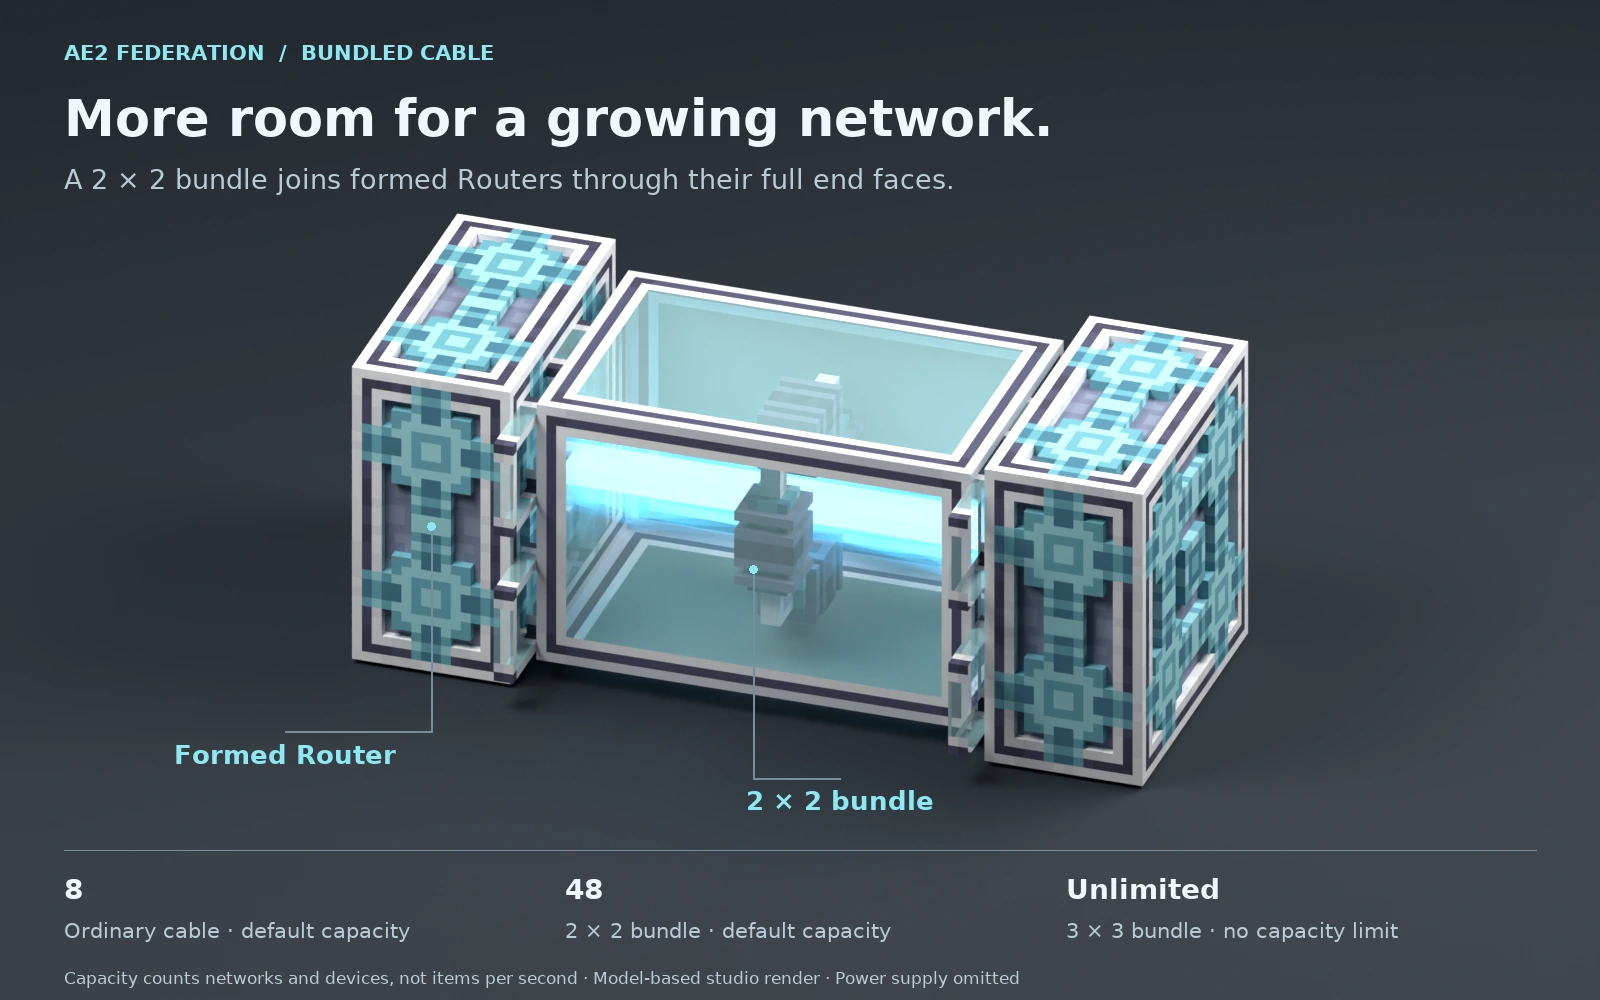
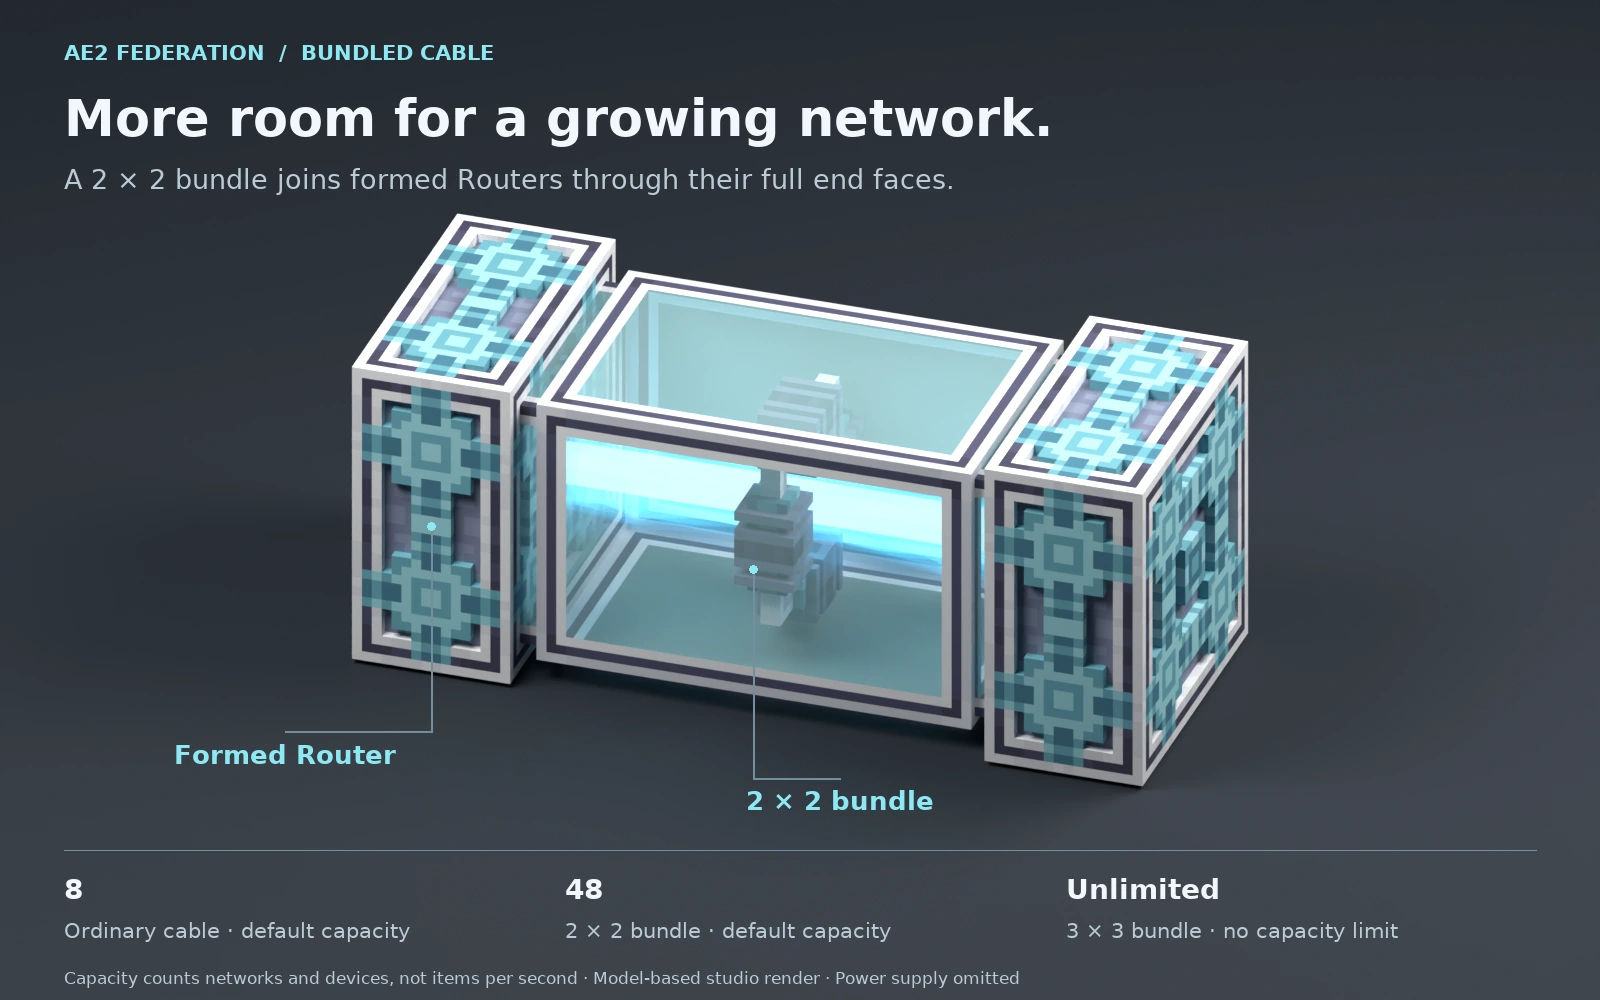
Fix stale guide claims, per-device shape messages and side-contact beams
From a review of the guide against the code:

- The guide still said one domain holds up to 4096 Federation blocks;
  that limit was removed.
- A Beam Former or Quantum Cube of the wrong size told the player to
  build a Beam Converter's shape. A device with a size rule of its own
  now names it (FormableDevice.sizeRule), in the use message and in
  Jade, also when the body is merely too large.
- A bundle meets ordinary cables through any formed device both connect
  to, not only a Router; a Router or Switch face links to every device
  face Federation Cable joins; and a device face only needs to be at
  least as large as the bundle's end.
- The one beam of a 2x2 or 3x3 bundle now turns into a device that takes
  a whole side row of its layer, as an ordinary cable's beam runs into a
  device. A layer's side contacts are part of BundleLook, since the
  corner cell that draws the beam does not touch them all.
- The gallery's bundled cable image showed the old per-cell arms; it is
  re-rendered with one arm per end.

diff --git a/common/src/main/java/space/controlnet/ae2federation/bundle/BundleLook.java b/common/src/main/java/space/controlnet/ae2federation/bundle/BundleLook.java
@@ -24,10 +24,11 @@ import space.controlnet.ae2federation.router.CableVisualConnections;
  * before this cell, bit 1 the one after); in a 3x3 one it stands inside every {@link #HUGE_RING_SPACING}th layer but
  * an end layer (bit 2). Where a branch leaves, the layers it covers carry the artist's corner rings instead. {@code jointsBefore} and
  * {@code jointsAfter} name the sides with such a branch, for every cell of those layers, and whether the branch goes on
- * into the previous or the next layer; the middle layer of a 3x3 branch has both.
+ * into the previous or the next layer; the middle layer of a 3x3 branch has both. {@code contacts} names, for every cell of
+ * the layer, the sides where a device takes the whole row of that side at this layer, so the one beam can turn toward it.
  */
 public record BundleLook(Direction.Axis axis, int edges, int joins, int dense, int joinsBefore, int joinsAfter,
-        int side, int rings, int jointsBefore, int jointsAfter) {
+        int side, int rings, int jointsBefore, int jointsAfter, int contacts) {
     /** Layer boundaries between two rings of a straight 2x2 stretch, counted in world coordinates. */
     public static final int RING_SPACING = 2;
     /**
@@ -76,14 +77,19 @@ public record BundleLook(Direction.Axis axis, int edges, int joins, int dense, i
             }
         }
         int width = segment.shape().filter(shape -> shape.narrow() == shape.wide()).map(BundleShape::narrow).orElse(0);
-        if (width == 0) return Optional.of(new BundleLook(axis, edges, joins, dense, before, after, 0, 0, 0, 0));
+        if (width == 0) return Optional.of(new BundleLook(axis, edges, joins, dense, before, after, 0, 0, 0, 0, 0));
         int jointsBefore = 0;
         int jointsAfter = 0;
+        int layerContacts = 0;
         for (var side : Direction.values()) {
             if (side.getAxis() == axis) continue;
             var face = faceCell(segment, pos, side);
             var branch = segments.apply(face.relative(side));
-            if (branch.isEmpty() || !BundleSet.linked(face, segment, face.relative(side), branch.get())) continue;
+            if (branch.isEmpty()) {
+                if (contacts.whole(segment, face, side)) layerContacts |= bit(side);
+                continue;
+            }
+            if (!BundleSet.linked(face, segment, face.relative(side), branch.get())) continue;
             if (opensOnto(face.relative(Direction.fromAxisAndDirection(axis, Direction.AxisDirection.NEGATIVE)), side,
                     segment, branch.get(), segments)) {
                 jointsBefore |= bit(side);
@@ -104,7 +110,7 @@ public record BundleLook(Direction.Axis axis, int edges, int joins, int dense, i
             rings |= 4;
         }
         return Optional.of(new BundleLook(axis, edges, joins, dense, before, after, width, rings, jointsBefore,
-                jointsAfter));
+                jointsAfter, layerContacts));
     }
 
     /** {@link #of(BlockPos, Function, Contacts)} as either side sees the level. */
@@ -181,6 +187,11 @@ public record BundleLook(Direction.Axis axis, int edges, int joins, int dense, i
     /** Whether a branch leaving toward {@code side} from this layer covers the previous one too. */
     public boolean jointBefore(Direction side) {
         return (jointsBefore & bit(side)) != 0;
+    }
+
+    /** Whether a device takes the whole row toward {@code side} at this layer of a 2x2 or 3x3 bundle. */
+    public boolean contact(Direction side) {
+        return (contacts & bit(side)) != 0;
     }
 
     /** Whether a branch leaving toward {@code side} from this layer covers the next one too. */

diff --git a/common/src/main/java/space/controlnet/ae2federation/bundle/BundleBeam.java b/common/src/main/java/space/controlnet/ae2federation/bundle/BundleBeam.java
@@ -11,7 +11,8 @@ import space.controlnet.ae2federation.router.CableVisualConnections;
  * Where a 2x2 or 3x3 bundle's one beam runs: down the middle of its cross-section, not one beam per cell. The cell at
  * the low corner of each layer draws it, as an ordinary cable's beam stretched over a box from that cell: {@code side}
  * cells wide across the bundle and {@code length} layers along it. Where a branch leaves, the box takes every layer the
- * branch covers, so the junction sits on the branch's own beam. Every other cell draws none ({@code length} 0).
+ * branch covers, so the junction sits on the branch's own beam. The beam also turns toward a device that takes a whole
+ * side row of its layer, as an ordinary cable's beam runs into a device. Every other cell draws none ({@code length} 0).
  *
  * @param mask the sides the stretched beam leaves through, as {@link CableVisualConnections#mask} encodes them
  */
@@ -35,13 +36,14 @@ public record BundleBeam(Direction.Axis axis, int mask, int length, int side) {
         var before = Direction.fromAxisAndDirection(axis, Direction.AxisDirection.NEGATIVE);
         var after = before.getOpposite();
         if (look.jointsBefore() != 0) return Optional.of(none);
-        int mask = leaves(look, before) ? bit(before) : 0;
+        int mask = (leaves(look, before) ? bit(before) : 0) | contacts(look);
         if (look.jointsAfter() == 0) {
             if (leaves(look, after)) mask |= bit(after);
             return Optional.of(new BundleBeam(axis, mask, 1, side));
         }
         // A branch covers as many layers as the bundle is wide; the far one decides whether the run goes on.
         if (layer.apply(side - 1).filter(far -> leaves(far, after)).isPresent()) mask |= bit(after);
+        for (int next = 1; next < side; next++) mask |= layer.apply(next).map(BundleBeam::contacts).orElse(0);
         for (var toward : Direction.values()) {
             if (look.jointAfter(toward)) mask |= bit(toward);
         }
@@ -64,6 +66,15 @@ public record BundleBeam(Direction.Axis axis, int mask, int length, int side) {
     /** How far the box reaches along {@code toward}'s axis, in blocks: across the bundle, or its length along it. */
     public int extent(Direction.Axis toward) {
         return toward == axis ? length : side;
+    }
+
+    /** The sides of {@code look}'s layer where a device takes a whole side row, so the beam turns into it. */
+    private static int contacts(BundleLook look) {
+        int mask = 0;
+        for (var side : Direction.values()) {
+            if (look.contact(side)) mask |= bit(side);
+        }
+        return mask;
     }
 
     private static boolean leaves(BundleLook look, Direction side) {

diff --git a/tools/blender/gallery.py b/tools/blender/gallery.py
@@ -29,6 +29,25 @@ import plasma_beam
 import geometry
 
 
+def thick_arm_quads(length):
+    """A 2x2 bundle's dense arms at both ends, in the shell's 32-voxel frame, as BundleShellLayout.armFaces tiles them:
+    1 voxel inside the shell across the whole end, the line texture's rim only where the arm ends, glass between."""
+    def column(a):
+        return a if a < 5 else a - 16 if a >= 27 else 5
+    quads = []
+    for shell_side, device_side in [(1, 0), (16 * length - 2, 16 * length - 1)]:
+        for x in (shell_side, device_side):
+            row = 14 if x == shell_side else 15
+            for a in range(3, 29):
+                uv = [((column(a) + .5) / 16, (row + .5) / 16)] * 4
+                for plane in (3, 29):
+                    for corners in ([(x, plane, a), (x + 1, plane, a), (x + 1, plane, a + 1), (x, plane, a + 1)],
+                                    [(x, a, plane), (x + 1, a, plane), (x + 1, a + 1, plane), (x, a + 1, plane)]):
+                        quads.append({'positions': [tuple(c / 16 for c in p) for p in corners], 'uv': uv,
+                                      'texture': 'ae2federation:part/cable/dense/line'})
+    return quads
+
+
 def main(args):
     output = args.output.resolve()
     output.mkdir(parents=True, exist_ok=True)
@@ -125,14 +144,8 @@ def main(args):
                 q['positions'] = [(1.5 + z - 1, y, 2 - x) for x, y, z in q['positions']]
             quads += ring
             mesh_object('Bundle / shell and original artist ring', quads, coll, materials, (-1.5, 1, 0))
-            # Device contacts use the same dense arm model as ordinary cables.
-            for x, side in [(-1.5, '7'), (.5, '13')]:
-                qs = [q for q in exported['shells'][side]
-                      if q['texture'] == 'ae2federation:part/cable/dense/line'
-                      and all(p[0] <= .125 if x < 0 else p[0] >= .875 for p in q['positions'])]
-                for y in (-.5, .5):
-                    for z in (0, 1):
-                        mesh_object('Bundle / dense contact', qs, coll, materials, (x, y, z))
+            # A thick bundle has one dense arm across each device contact, as the game draws it.
+            mesh_object('Bundle / dense contacts', thick_arm_quads(length=3), coll, materials, (-1.5, 1, 0))
             light(coll, 3, (-1.5, 0, 1), bundle=True)
             anchors = {'router': (-2, -1, 1), 'bundle': (0, -.9, 1), 'ring': (0, 0, 1.8)}
         else:

diff --git a/common/src/test/java/space/controlnet/ae2federation/bundle/BundleBeamTest.java b/common/src/test/java/space/controlnet/ae2federation/bundle/BundleBeamTest.java
@@ -43,6 +43,24 @@ final class BundleBeamTest {
     }
 
     @Test
+    void theBeamTurnsIntoADeviceAlongASide() {
+        var set = new BundleSet();
+        set.form(RUN);
+        // A device takes the whole top row at x 3: the top cells' faces there, not the corner cell's own.
+        BundleLook.Contacts top = (segment, pos, face) -> face == Direction.UP && pos.getX() == 3;
+        var segment = set.at(new BlockPos(3, 0, 0)).orElseThrow().segment();
+        java.util.function.Function<BlockPos, Optional<BundleLook>> looks =
+                pos -> BundleLook.of(pos, cell -> set.at(cell).map(BundleSet.Membership::segment), top);
+        var corner = new BlockPos(3, 0, 0);
+        var beam = BundleBeam.of(corner, segment, looks.apply(corner).orElseThrow(),
+                layers -> looks.apply(corner.relative(Direction.Axis.X, layers))).orElseThrow();
+        assertEquals(mask(Direction.EAST, Direction.WEST, Direction.UP), beam.mask());
+        var next = new BlockPos(4, 0, 0);
+        assertEquals(mask(Direction.EAST, Direction.WEST), BundleBeam.of(next, segment, looks.apply(next).orElseThrow(),
+                layers -> looks.apply(next.relative(Direction.Axis.X, layers))).orElseThrow().mask());
+    }
+
+    @Test
     void aCellOffItsLayersCornerKnowsFromItsOwnSegmentThatItDrawsNoBeam() {
         // A cell's renderer skips reading its neighbours when its own segment says it draws nothing: that must be
         // exactly what the full look says, at runs, branches, turns and ends, for 2x2, 3x3 and non-square bundles.

diff --git a/common/src/main/java/space/controlnet/ae2federation/compat/jade/DeviceProvider.java b/common/src/main/java/space/controlnet/ae2federation/compat/jade/DeviceProvider.java
@@ -1,6 +1,5 @@
 package space.controlnet.ae2federation.compat.jade;
 
-import java.util.Locale;
 import net.minecraft.nbt.CompoundTag;
 import net.minecraft.resources.ResourceLocation;
 import net.minecraft.server.level.ServerLevel;
@@ -10,6 +9,7 @@ import snownee.jade.api.IServerDataProvider;
 import snownee.jade.api.ITooltip;
 import snownee.jade.api.config.IPluginConfig;
 import space.controlnet.ae2federation.router.DeviceStructure;
+import space.controlnet.ae2federation.router.DeviceStructureUpdater;
 import space.controlnet.ae2federation.router.DeviceSummary;
 
 /**
@@ -33,7 +33,9 @@ enum DeviceProvider implements IBlockComponentProvider, IServerDataProvider<Bloc
                 var size = valid.max().subtract(valid.min());
                 data.putIntArray(SIZE, new int[] {size.getX() + 1, size.getY() + 1, size.getZ() + 1});
             }
-            case DeviceStructure.Invalid invalid -> data.putString(BODY, invalid.reason().name().toLowerCase(Locale.ROOT));
+            case DeviceStructure.Invalid invalid -> data.putString(BODY,
+                    DeviceStructureUpdater.reasonKey(level.getBlockState(accessor.getPosition()).getBlock(),
+                            invalid.reason()));
             case DeviceStructure.Unknown unknown -> data.putString(BODY, "unloaded");
         }
         summary.networks().ifPresent(count -> data.putInt(NETWORKS, count));

diff --git a/common/src/main/java/space/controlnet/ae2federation/router/DeviceStructureUpdater.java b/common/src/main/java/space/controlnet/ae2federation/router/DeviceStructureUpdater.java
@@ -98,8 +98,20 @@ public final class DeviceStructureUpdater {
             case DeviceStructure.Valid valid -> Component.translatable("ae2federation.structure.forming", name);
             case DeviceStructure.Unknown unknown -> Component.translatable("ae2federation.structure.unloaded", name);
             case DeviceStructure.Invalid invalid -> Component.translatable("ae2federation.structure.invalid."
-                    + invalid.reason().name().toLowerCase(java.util.Locale.ROOT), name, DeviceStructure.MAX_EDGE);
+                    + reasonKey(block, invalid.reason()), name, DeviceStructure.MAX_EDGE);
         };
+    }
+
+    /**
+     * The lower-case key naming why {@code block}'s body does not form. A device with a size rule of its own names that
+     * rule when the body is too large or the wrong shape, since the rule says which sizes it takes.
+     */
+    public static String reasonKey(Block block, DeviceStructure.Reason reason) {
+        var rule = block instanceof FormableDevice device ? device.sizeRule() : null;
+        if (rule != null && (reason == DeviceStructure.Reason.WRONG_SHAPE || reason == DeviceStructure.Reason.TOO_LARGE)) {
+            return "wrong_shape." + rule;
+        }
+        return reason.name().toLowerCase(java.util.Locale.ROOT);
     }
 
     private static void update(ServerLevel level, BlockPos start, Set<BlockPos> settled) {

diff --git a/common/src/testmod/java/space/controlnet/ae2federation/test/BeamFormerGameTests.java b/common/src/testmod/java/space/controlnet/ae2federation/test/BeamFormerGameTests.java
@@ -87,6 +87,11 @@ public final class BeamFormerGameTests {
             for (var cell : thick) {
                 helper.assertTrue(!RouterBlock.formed(helper.getBlockState(cell)), "a 2x2x2 is no former: " + cell);
             }
+            var status = space.controlnet.ae2federation.router.DeviceStructureUpdater.status(helper.getLevel(),
+                    helper.absolutePos(oneByTwo.getFirst()));
+            helper.assertTrue(status.getContents() instanceof net.minecraft.network.chat.contents.TranslatableContents
+                    contents && contents.getKey().equals("ae2federation.structure.invalid.wrong_shape.beam_former"),
+                    "a 1x2 must name the former's sizes: " + status.getString());
             assertFacing(helper, majority, Direction.WEST, "three of four blocks face west");
             assertFacing(helper, cabled, Direction.WEST, "no vote on its axis: away from the cable at its east");
             assertFacing(helper, noVote, Direction.EAST, "no vote, no cable: the positive end");

diff --git a/common/src/test/java/space/controlnet/ae2federation/compat/jade/FederationJadeTextTest.java b/common/src/test/java/space/controlnet/ae2federation/compat/jade/FederationJadeTextTest.java
@@ -88,7 +88,8 @@ final class FederationJadeTextTest {
     void everyLineAndConfigNameIsTranslatedInBothLanguages() throws IOException {
         var keys = List.of("structure.size", "structure.not_solid", "structure.touching", "structure.too_large",
                 "structure.unloaded", "switch_networks", "endpoint.local", "endpoint.claimed", "endpoint.unclaimed",
-                "pattern_provider", "structure.wrong_shape", "converter", "converter.idle");
+                "pattern_provider", "structure.wrong_shape.beam_converter", "structure.wrong_shape.beam_former",
+                "structure.wrong_shape.quantum_cube", "converter", "converter.idle");
         for (var language : List.of("en_us", "zh_cn")) {
             JsonObject lang = JsonParser.parseString(Files.readString(LANG.resolve(language + ".json"))).getAsJsonObject();
             keys.forEach(key -> assertTrue(lang.has("ae2federation.jade." + key), language + " lacks " + key));

diff --git a/common/src/testmod/java/space/controlnet/ae2federation/test/QuantumCubeGameTests.java b/common/src/testmod/java/space/controlnet/ae2federation/test/QuantumCubeGameTests.java
@@ -69,6 +69,11 @@ public final class QuantumCubeGameTests {
                     helper.assertTrue(!RouterBlock.formed(helper.getBlockState(cell)), "no cube: " + cell);
                 }
             }
+            var status = space.controlnet.ae2federation.router.DeviceStructureUpdater.status(helper.getLevel(),
+                    helper.absolutePos(cuboid.getFirst()));
+            helper.assertTrue(status.getContents() instanceof net.minecraft.network.chat.contents.TranslatableContents
+                    contents && contents.getKey().equals("ae2federation.structure.invalid.wrong_shape.quantum_cube"),
+                    "a 3x3x4 must name the cube's sizes: " + status.getString());
             RouterEvidence.write("quantumcubeshapes", 6, Map.of("3x3x3", "1x1", "4x4x4", "2x2", "5x5x5", "3x3",
                     "2x2x2", "unformed", "6x6x6", "unformed", "3x3x4", "unformed"));
         });

diff --git a/common/src/main/java/space/controlnet/ae2federation/router/FormableDevice.java b/common/src/main/java/space/controlnet/ae2federation/router/FormableDevice.java
@@ -3,6 +3,7 @@ package space.controlnet.ae2federation.router;
 import java.util.function.UnaryOperator;
 import net.minecraft.world.level.BlockGetter;
 import net.minecraft.world.level.block.state.BlockState;
+import org.jetbrains.annotations.Nullable;
 
 /**
  * A block whose touching blocks of the same type form one solid-cuboid body, as Routers and Switches do. Its states
@@ -15,6 +16,14 @@ public interface FormableDevice {
      */
     default DeviceStructure.Result judge(BlockGetter level, DeviceStructure.Valid body) {
         return body;
+    }
+
+    /**
+     * The name of this device's own size rule, which {@link #judge} applies, for the message that explains it; null
+     * when only the common rules apply.
+     */
+    default @Nullable String sizeRule() {
+        return null;
     }
 
     /** Clears model properties when a body becomes invalid. */

diff --git a/common/src/test/java/space/controlnet/ae2federation/bundle/BundleLookTest.java b/common/src/test/java/space/controlnet/ae2federation/bundle/BundleLookTest.java
@@ -110,7 +110,9 @@ final class BundleLookTest {
         assertFalse(look.join(Direction.SOUTH));
         assertFalse(look.dense(Direction.SOUTH), "another bundle is no device");
         assertFalse(asked.contains(Direction.SOUTH));
-        assertEquals(Set.of(Direction.DOWN), asked, "only outer sides facing no bundle ask about devices");
+        // The cell's own outer side, and its layer's other outer sides for the beam; never one facing a bundle.
+        assertEquals(Set.of(Direction.DOWN, Direction.UP, Direction.NORTH), asked,
+                "only outer sides facing no bundle ask about devices");
     }
 
     @Test

diff --git a/common/src/main/java/space/controlnet/ae2federation/compat/jade/FederationJadeText.java b/common/src/main/java/space/controlnet/ae2federation/compat/jade/FederationJadeText.java
@@ -17,7 +17,7 @@ final class FederationJadeText {
 
     /**
      * A Router or Switch body: its size when it is more than one block, else why it does not form. {@code state} is
-     * {@code valid} or the lower-case name of an {@link DeviceStructure.Reason}, or {@code unloaded}.
+     * {@code valid}, a reason as {@code DeviceStructureUpdater.reasonKey} names it, or {@code unloaded}.
      */
     static Optional<Component> body(String state, int sizeX, int sizeY, int sizeZ) {
         return switch (state) {
